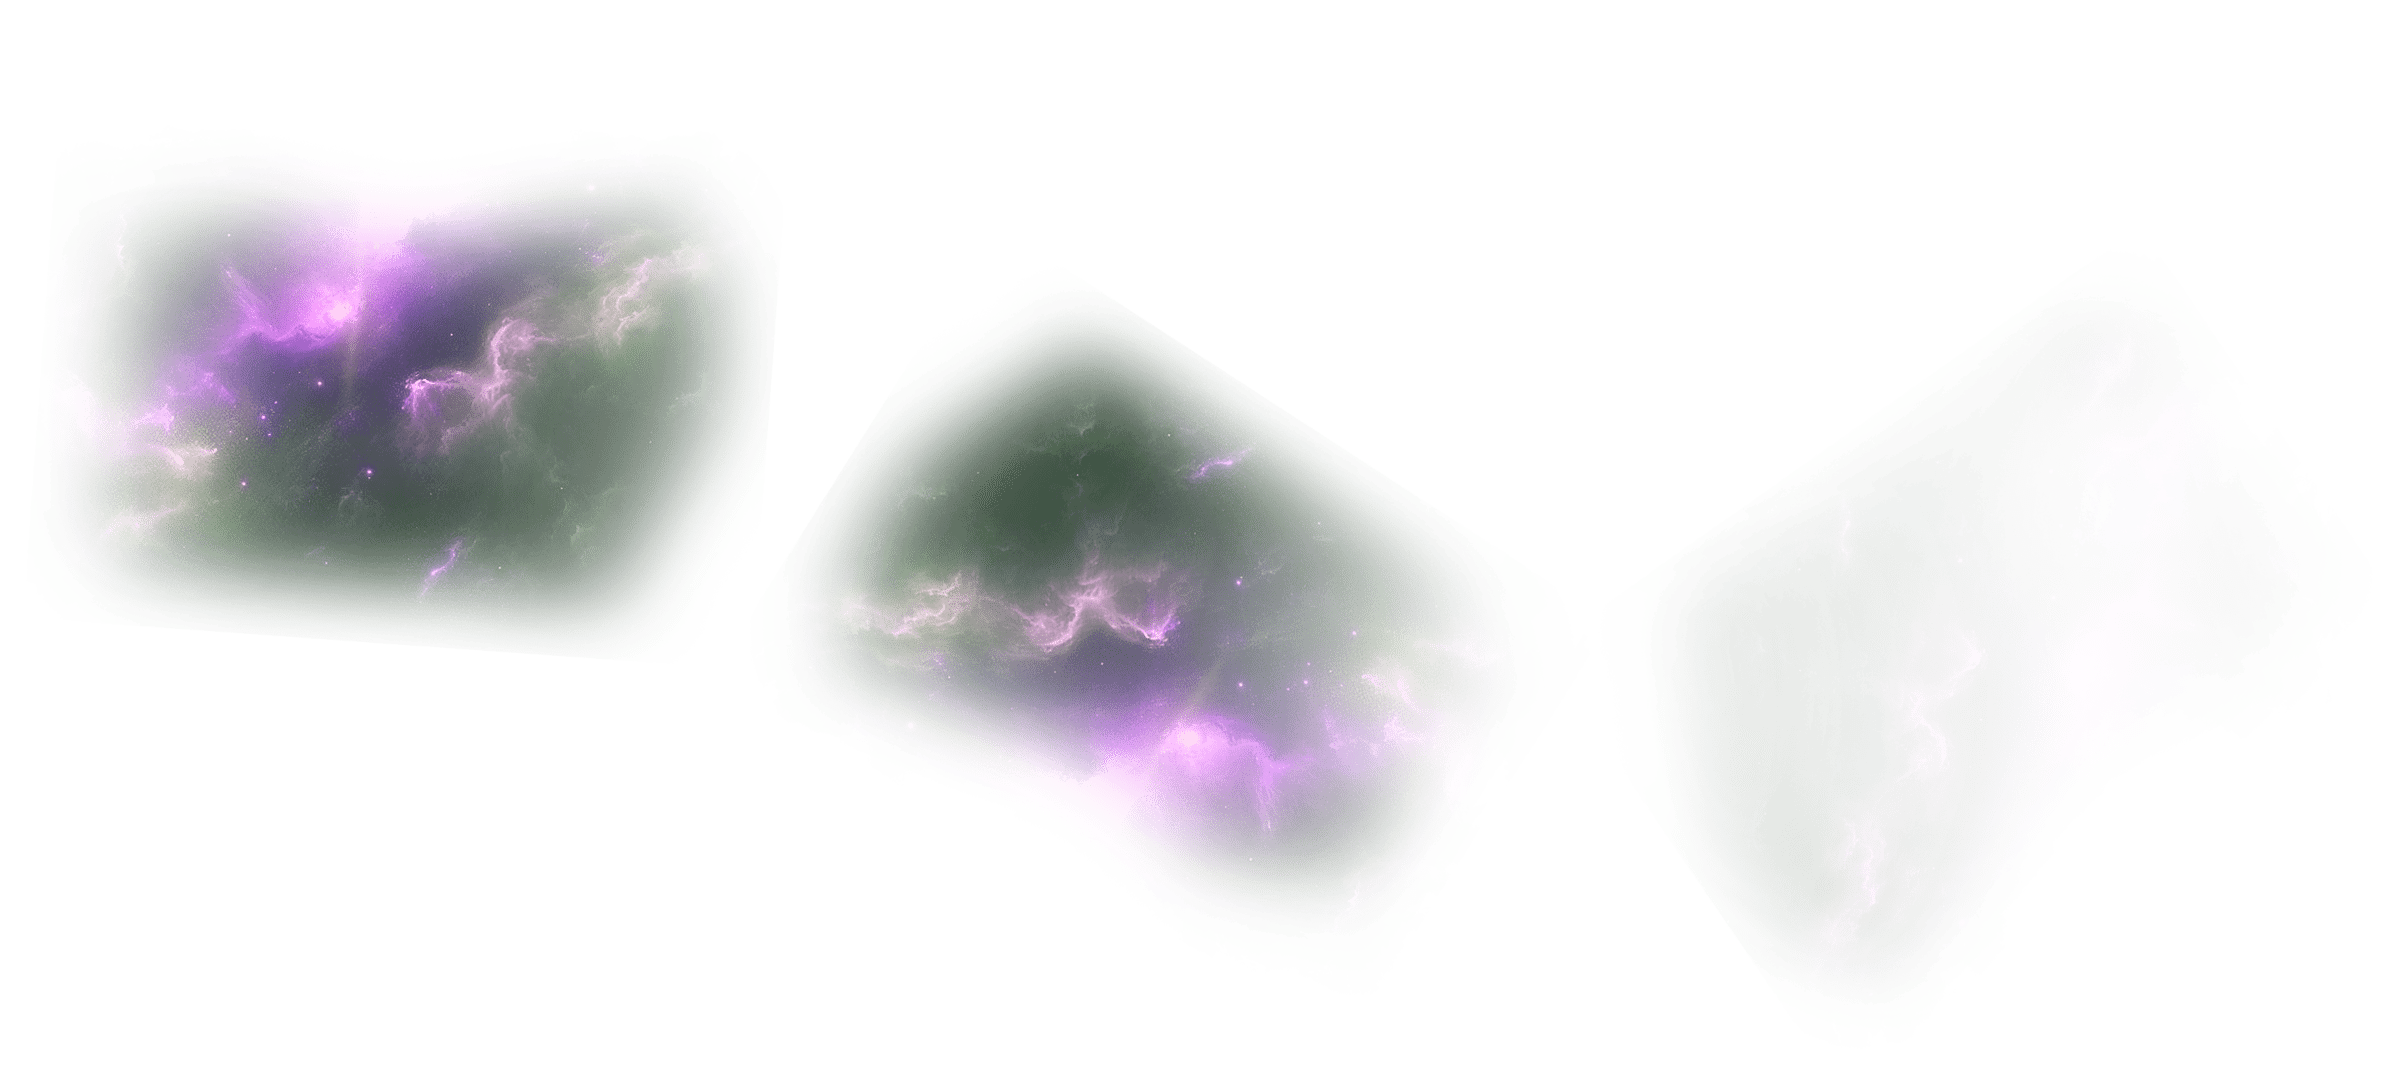
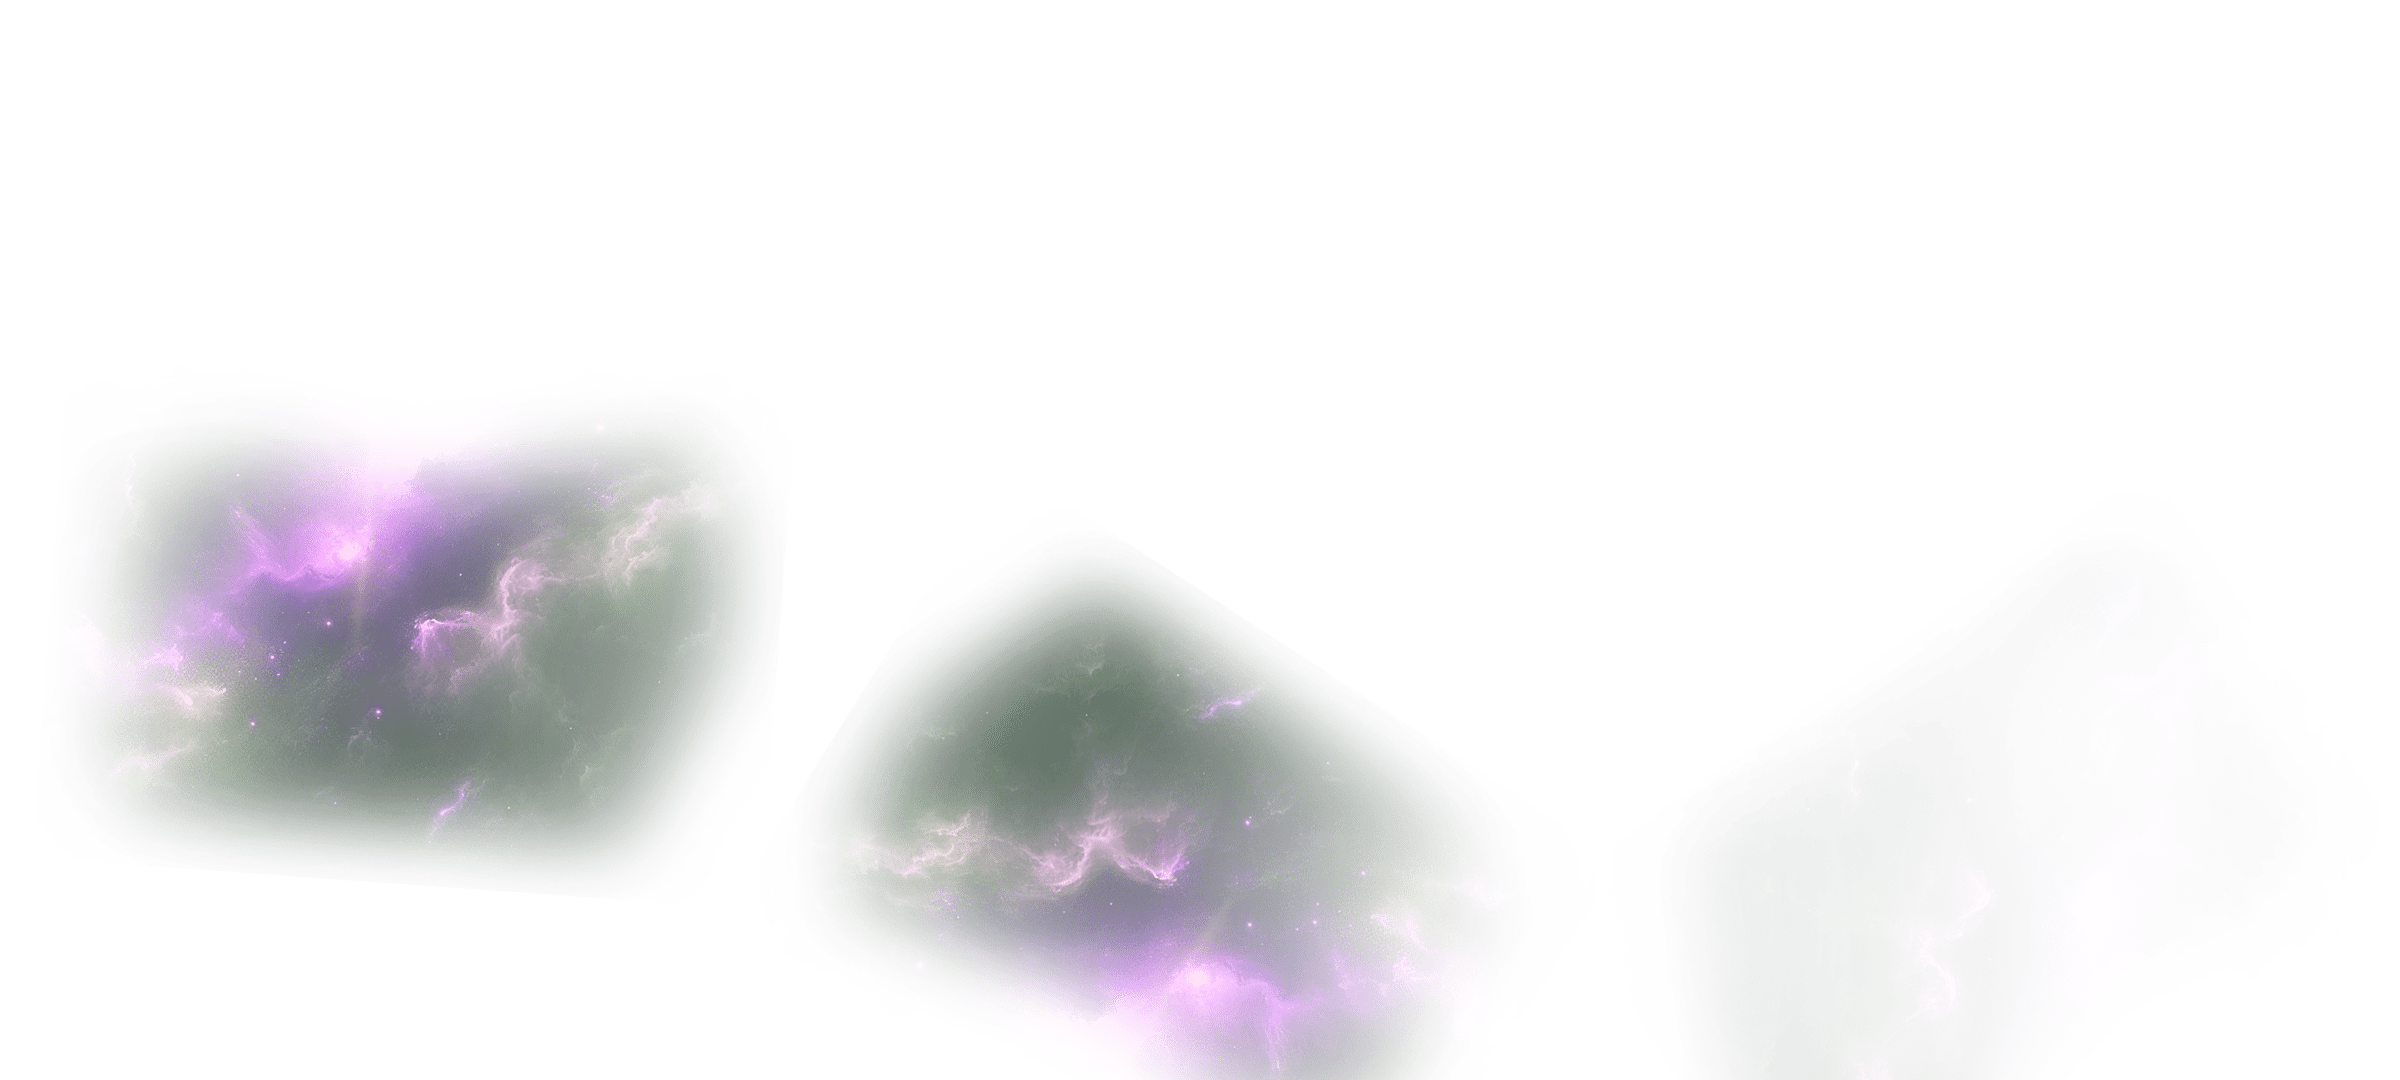
New layer added and speed modified

Changed region(s): [[0.0312, 0.1833, 0.3125, 0.825], [0.3438, 0.3056, 0.625, 1.0], [0.7188, 0.6722, 0.75, 0.7028]]

diff --git a/scripts/backgroundScript.js b/scripts/backgroundScript.js
@@ -33,17 +33,17 @@ class Layer {
         this.image = document.getElementById('layer1');
         this.width = 2400;
         this.height = 1080;
-        this.scaledWidth = this.width * 2;
-        this.scaledHeight = this.height * 0.5;
-        this.x = -2750; // starts from spesific position from left outside canvas
-        this.y = this.game.height - this.scaledHeight * 0.5;
+        this.scaledWidth = this.width 
+        this.scaledHeight = this.height
+        this.x = -1200; // starts from spesific position from left outside canvas
+        this.y = 0;
     }
 
     update() {
         if (!this.game.pause) {
-            this.x += 1.5  // layer moving from left to right certain speed
-            if (this.x > this.width * 0.6)  // when reaching this position starts again
-                this.x = -2750;
+            this.x += 1  // layer moving from left to right certain speed
+            if (this.x > this.width)  // when reaching this position starts again
+                this.x = -1200;
             // console.log(this.x);
         }
 

diff --git a/scripts/main.js b/scripts/main.js
@@ -505,7 +505,7 @@ class Level2 extends Game {
         // initializing level specific value
         this.background.image = document.getElementById('level2Background');
         this.planet.image = document.getElementById('level2Planet');
-        this.layer.image = document.getElementById('layer1');
+        this.layer.image = document.getElementById('layer2');
         this.ui.pauseImage = document.getElementById('level2PauseMenu');
         this.winningScore = 50;
         this.gameTime = 0;

diff --git a/gog.html b/gog.html
@@ -84,7 +84,9 @@
         />
 
         <!-- Layers -->
-        <img src="./assets/Backgrounds/layers/layer2-min.png" id="layer1" />
+        <img src="./assets/Backgrounds/layers/layer1-min.png" id="layer1" />
+        <img src="./assets/Backgrounds/layers/layer2-min.png" id="layer2" />
+
         <!-- Treats -->
         <img
           src="./assets/Threats images/asteroid.png"
